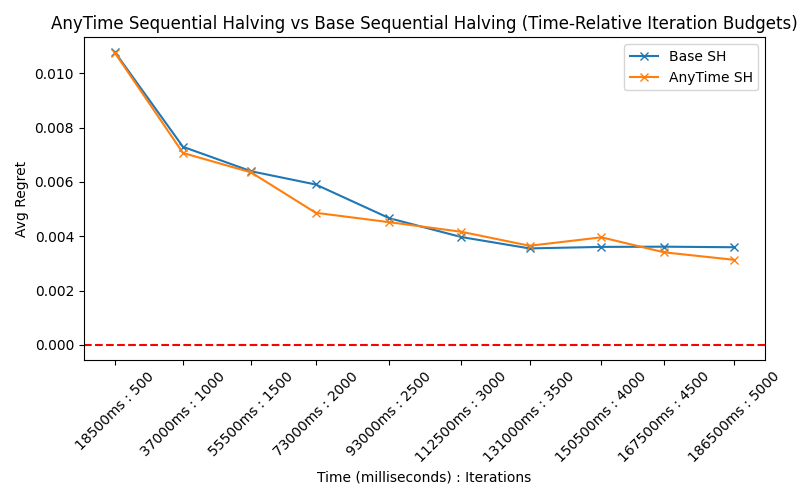
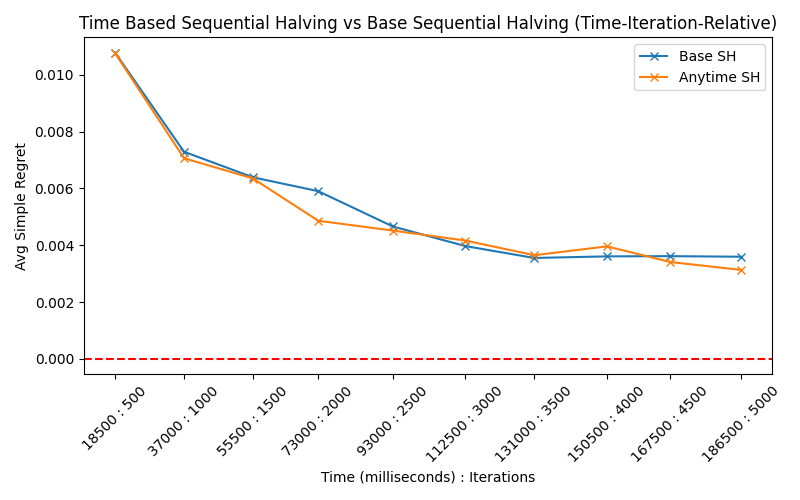
Added some plots

diff --git a/MAB/MAB_experiment_runner.py b/MAB/MAB_experiment_runner.py
@@ -305,6 +305,43 @@ class MAB_Experiment_runner:
                 std_regret = np.std(regrets)
                 avg_edit_distance = sum(edit_distances) / len(edit_distances)
                 std_edit_distance = np.std(edit_distances)
+            case "ucb":
+                regrets = []
+                edit_distances = []
+                for t in range(self.arm_means.shape[0]):
+                    algo = sh.UCB1((1/math.sqrt(2)), num_arms, time_budget_ms)
+                    start_time = int(round(time.time() * 1000))                     
+                    true_means = self.arm_means[t,:]
+                    
+                    while int(round(time.time() * 1000)) <algo.stop_time:
+                        arm = algo.choose_arm()
+                        reward = norm.rvs(loc=self.arm_means[t,:][arm], scale=1.0)
+                        algo.observe_reward(arm, reward)
+                    
+                    
+                    keys = algo.total_means.keys()
+                    max_val = -1
+                    for key in keys:
+                        if algo.total_means.get(key) > max_val:
+                            max_val = algo.total_means.get(key)
+                            
+                    # print("\n******************")
+                    # print(true_means)
+                    # print("\n-----\n")
+                    # print(algo.current_arms)
+                    # print("\n-----\n")
+                    # print(algo.total_means)
+                    # print("******************\n")
+                    regrets.append(self.get_regret(true_means, max_val))
+                    
+                    edit_distances.append(self.get_edit_distance(true_means, algo.total_rewards))
+
+                    #print(t)
+                
+                avg_regret = sum(regrets) / len(regrets)
+                std_regret = np.std(regrets)
+                avg_edit_distance = sum(edit_distances) / len(edit_distances)
+                std_edit_distance = np.std(edit_distances)
                             
                     
   #  start_time = int(round(time.time() * 1000)) 
@@ -366,7 +403,17 @@ class MAB_Experiment_runner:
                 std_regret_list.append(std_regret)
                 avg_edit_distance_list.append(avg_edit_distance)
                 std_edit_distance_list.append(std_edit_distance)
-        
+        elif algo_type == "ucb":
+            for r in time_range:
+                regrets, avg_regret, std_regret, edit_distances, avg_edit_distance, std_edit_distance = self.run_regret_and_edit_distance_experiment(algo_type, time_budget_ms=r, print_results=False)
+                avg_regret_list.append(avg_regret)
+                std_regret_list.append(std_regret)
+                avg_edit_distance_list.append(avg_edit_distance)
+                std_edit_distance_list.append(std_edit_distance)
+                
+                
+                
+            
         filename = f"{algo_type}_regret_edit_distance.csv"
         with open(filename, 'w', newline='') as f:
             writer = csv.writer(f)
@@ -395,31 +442,129 @@ class MAB_Experiment_runner:
 if __name__ == "__main__":
     
     
-    csv1it = pd.read_csv("anytime_regret_edit_distance.csv")
-    csv1time = pd.read_csv("iteration_regret_edit_distance_time_relative.csv")
+    # csv1it = pd.read_csv("anytime_regret_edit_distance.csv")
+    # csv1time = pd.read_csv("iteration_regret_edit_distance_time_relative.csv")
 
 
-    plt.figure(figsize=(8, 5))
+    # plt.figure(figsize=(8, 5))
 
-    # Plotting Avg Regret vs Time for both datasets
-    plt.plot(csv1time["Index"], csv1time["Avg Regret"], label="Base SH", marker='x')
-    plt.plot(csv1time["Index"], csv1it["Avg Regret"], label="Iteration Budget", marker='x')
-    plt.axhline(y=0, color='r', linestyle='--')  # Add horizontal line at y=0
+    # # Plotting Avg Regret vs Time for both datasets
+    # plt.plot(csv1time["Index"], csv1time["Avg Regret"], label="Base SH", marker='x')
+    # plt.plot(csv1time["Index"], csv1it["Avg Regret"], label="Anytime SH", marker='x')
+    # plt.axhline(y=0, color='r', linestyle='--')  # Add horizontal line at y=0
 
-    plt.xlabel("Time (milliseconds) : Iterations")
-    plt.ylabel("Avg Regret")
-    plt.title("AnyTime Sequential Halving vs Base Sequential Halving (Time-Relative Iteration Budgets)")
-    plt.legend()
+    # plt.xlabel("Time (milliseconds) : Iterations")
+    # plt.ylabel("Avg Simple Regret")
+    # plt.title("Time Based Sequential Halving vs Base Sequential Halving (Time-Iteration-Relative)")
+    # plt.legend()
 
-    # Adjust x-axis labels to show time and corresponding iterations
-    time_iterations_labels = [f"{time}ms : {iterations}" for time, iterations in zip(csv1time["Index"], csv1it["Index"])]
-    plt.xticks(csv1time["Index"], time_iterations_labels, rotation=45)
+    # # Adjust x-axis labels to show time and corresponding iterations
+    # time_iterations_labels = [f"{time} : {iterations}" for time, iterations in zip(csv1time["Index"], csv1it["Index"])]
+    # plt.xticks(csv1time["Index"], time_iterations_labels, rotation=45)
 
-    plt.tight_layout()
-    plt.savefig("avg_regret_vs_anytime_vs_relative_iter_csv_overlapped.png")
-    plt.show()
+    # plt.tight_layout()
+    # plt.savefig("avg_regret_vs_anytime_vs_relative_iter_csv_overlapped.png")
+    # plt.show()
 
 
+
+    # csv1it = pd.read_csv("anytime_regret_edit_distance.csv")
+    # csv1time = pd.read_csv("time_regret_edit_distance.csv")
+
+
+  # Read the CSV files
+    # csv1it = pd.read_csv("anytime_regret_edit_distance.csv")
+    # csv1time = pd.read_csv("iteration_regret_edit_distance_time_relative.csv")
+
+    # plt.figure(figsize=(8, 5))
+
+    # # Plotting Avg Regret vs Time for both datasets
+    # plt.plot(csv1time["Index"], csv1time["Avg Regret"], label="Base SH", marker='x')
+    # plt.plot(csv1time["Index"], csv1it["Avg Regret"], label="Anytime SH", marker='x')
+
+    # # Shading the area between the confidence intervals for Base SH
+    # plt.fill_between(csv1time["Index"],
+    #                 csv1time["Avg Regret"] - csv1time["Std Regret"],
+    #                 csv1time["Avg Regret"] + csv1time["Std Regret"],
+    #                 color='blue', alpha=0.2)
+
+    # # Shading the area between the confidence intervals for Anytime SH
+    # plt.fill_between(csv1time["Index"],
+    #                 csv1it["Avg Regret"] - csv1it["Std Regret"],
+    #                 csv1it["Avg Regret"] + csv1it["Std Regret"],
+    #                 color='orange', alpha=0.2)
+
+    # plt.axhline(y=0, color='r', linestyle='--')  # Add horizontal line at y=0
+
+    # plt.xlabel("Time (milliseconds) : Iterations")
+    # plt.ylabel("Avg Simple Regret")
+    # plt.title("Anytime Sequential Halving vs Base Sequential Halving (Time-Iteration-Relative)")
+    # plt.legend()
+
+    # # Adjust x-axis labels to show time and corresponding iterations
+    # time_iterations_labels = [f"{time} : {iteration}" for time, iteration in zip(csv1time["Index"], csv1it["Index"])]
+    # plt.xticks(csv1time["Index"], time_iterations_labels, rotation=45, ha='right')
+
+    # plt.tight_layout()
+    # plt.savefig("avg_regret_vs_anytime_vs_relative_iter_csv_overlapped_with_shaded_ci.png")
+    # plt.show()
+
+    # plt.figure(figsize=(8, 5))
+
+    # # Plotting Avg Regret vs Time for both datasets
+    # plt.plot(csv1time["Index"], csv1time["Avg Regret"], label="Time SH", marker='x')
+    # plt.plot(csv1time["Index"], csv1it["Avg Regret"], label="Anytime SH", marker='x')
+    # plt.axhline(y=0, color='r', linestyle='--')  # Add horizontal line at y=0
+
+    # plt.xlabel("Time (milliseconds)")
+    # plt.ylabel("Avg Simple Regret")
+    # plt.title("Time Based Sequential Halving vs Anytime Sequential Halving")
+    # plt.legend()
+
+    # # Adjust x-axis labels to show time and corresponding iterations
+    # time_iterations_labels = [f"{time} : {iterations}" for time, iterations in zip(csv1time["Index"], csv1it["Index"])]
+    # plt.xticks(csv1time["Index"], time_iterations_labels, rotation=45)
+
+    # plt.tight_layout()
+    # plt.savefig("avg_regret_vs_anytime_vs_time_csv_overlapped.png")
+    # plt.show()
+
+#    # Read the CSV files
+#     csv1it = pd.read_csv("anytime_regret_edit_distance.csv")
+#     csv1time = pd.read_csv("time_regret_edit_distance.csv")
+
+#     plt.figure(figsize=(10, 6))
+
+#     # Plotting Avg Regret vs Time for both datasets with shaded confidence intervals
+#     plt.plot(csv1time["Index"], csv1time["Avg Regret"], label="Time SH", marker='x')
+#     plt.plot(csv1it["Index"], csv1it["Avg Regret"], label="Anytime SH", marker='o')
+
+#     # Shading the area between the confidence intervals for Time SH
+#     plt.fill_between(csv1time["Index"],
+#                     csv1time["Avg Regret"] - csv1time["Std Regret"],
+#                     csv1time["Avg Regret"] + csv1time["Std Regret"],
+#                     color='blue', alpha=0.2)
+
+#     # Shading the area between the confidence intervals for Anytime SH
+#     plt.fill_between(csv1it["Index"],
+#                     csv1it["Avg Regret"] - csv1it["Std Regret"],
+#                     csv1it["Avg Regret"] + csv1it["Std Regret"],
+#                     color='orange', alpha=0.2)
+
+#     plt.axhline(y=0, color='r', linestyle='--')  # Add horizontal line at y=0
+
+#     plt.xlabel("Time (milliseconds)")
+#     plt.ylabel("Avg Simple Regret")
+#     plt.title("Time Based Sequential Halving vs Anytime Sequential Halving")
+#     plt.legend()
+
+#     # Adjust x-axis labels to show time and corresponding iterations
+#     time_iterations_labels = [f"{time} : {iterations}" for time, iterations in zip(csv1time["Index"], csv1it["Index"])]
+#     plt.xticks(csv1time["Index"], time_iterations_labels, rotation=45)
+
+#     plt.tight_layout()
+#     plt.savefig("avg_regret_vs_anytime_vs_time_csv_shaded.png")
+#     plt.show()
     # plt.figure(figsize=(10, 10))
 
     # # Plotting Avg Regret vs Iteration/Time for CSV 1
@@ -544,16 +689,16 @@ if __name__ == "__main__":
     """
     
     
-    # num_arms = 10
-    # means_amt = 100
+    num_arms = 10
+    means_amt = 100
     # iterations = 60000
     # arm_means_idx = 5
-    # times = range(500,5500,500)
-    # iters = [18500, 37000, 55500, 73000, 93000, 112500, 131000, 150500, 167500, 186500]
-    # time_budget_ms = 1000
+    times = range(500,5500,500)
+    iters = [18500, 37000, 55500, 73000, 93000, 112500, 131000, 150500, 167500, 186500]
+    time_budget_ms = 1000
 
-    # mab_exp_runner = MAB_Experiment_runner(num_arms, means_amt)
-    # mab_exp_runner.make_csv_edit_regret_experiment(algo_type="iteration", iteration_range=iters)
+    mab_exp_runner = MAB_Experiment_runner(num_arms, means_amt)
+    mab_exp_runner.make_csv_edit_regret_experiment(algo_type="ucb", time_range=times)
     # mab_exp_runner.run_sh_base_experiment(190000, 5)
     # time_dict = mab_exp_runner.get_base_sh_times(times, range(16000, 190500, 500))
 

diff --git a/MAB/SequentialHalvingMAB.py b/MAB/SequentialHalvingMAB.py
@@ -487,22 +487,24 @@ class UCB1:
   The UCB1 algorithm.
   """
 
-  def __init__(self, C: float):
+  def __init__(self, C: float, numarms, time_budget):
     """
     :param C: The exploration parameter C.
     """
+    self.numarms = numarms
+    self.stop_time = int(round(time.time() * 1000)) + time_budget
     self.C = C
     self.t = 0
-    self.num_pulls = [0 for _ in range(k)]
-    self.avg_rewards = np.zeros(k)
+    self.num_pulls = [0 for _ in range(numarms)]
+    self.avg_rewards = np.zeros(numarms)
 
   def reset(self) -> None:
     """
     Reset all memory.
     """
     self.t = 0
-    self.num_pulls = [0 for _ in range(k)]
-    self.avg_rewards = np.zeros(k)
+    self.num_pulls = [0 for _ in range(self.numarms)]
+    self.avg_rewards = np.zeros(self.numarms)
 
   def choose_arm(self) -> int:
     """
@@ -510,13 +512,13 @@ class UCB1:
     """
     self.t = self.t + 1
     ucbs = np.copy(self.avg_rewards)
-    log_t = log(self.t)
+    log_t = math.log(self.t)
 
-    for i in range(k):
+    for i in range(self.numarms):
       if self.num_pulls[i] == 0:
         ucbs[i] = np.inf
       else:
-        ucbs[i] = ucbs[i] + self.C * sqrt(log_t / self.num_pulls[i])
+        ucbs[i] = ucbs[i] + self.C * math.sqrt(log_t / self.num_pulls[i])
 
     return np.argmax(ucbs)
 
